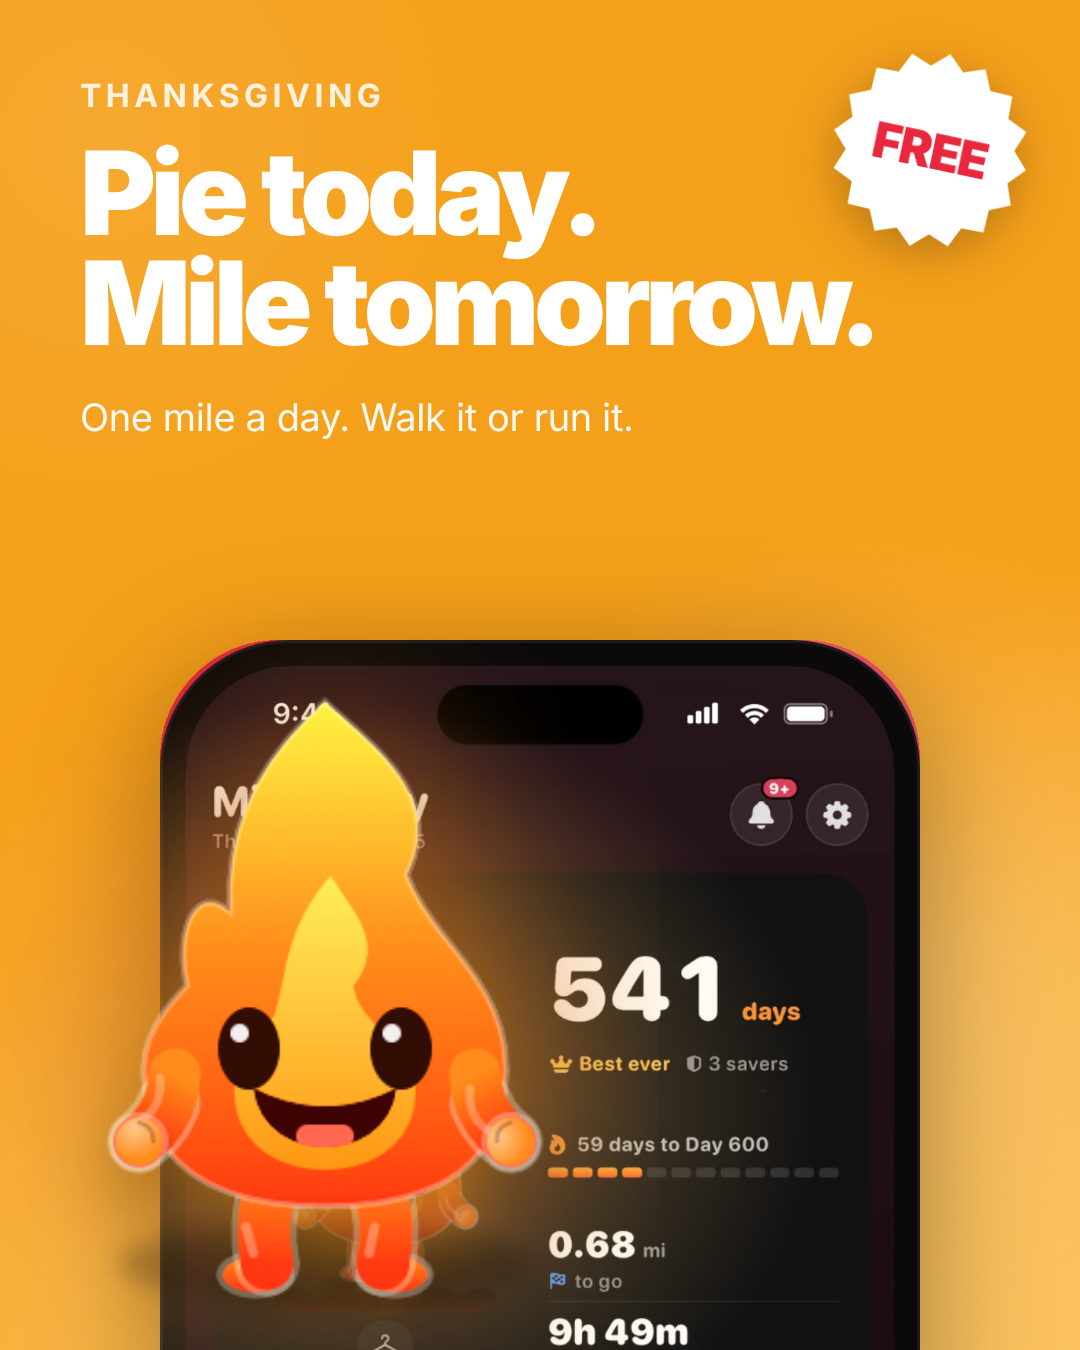
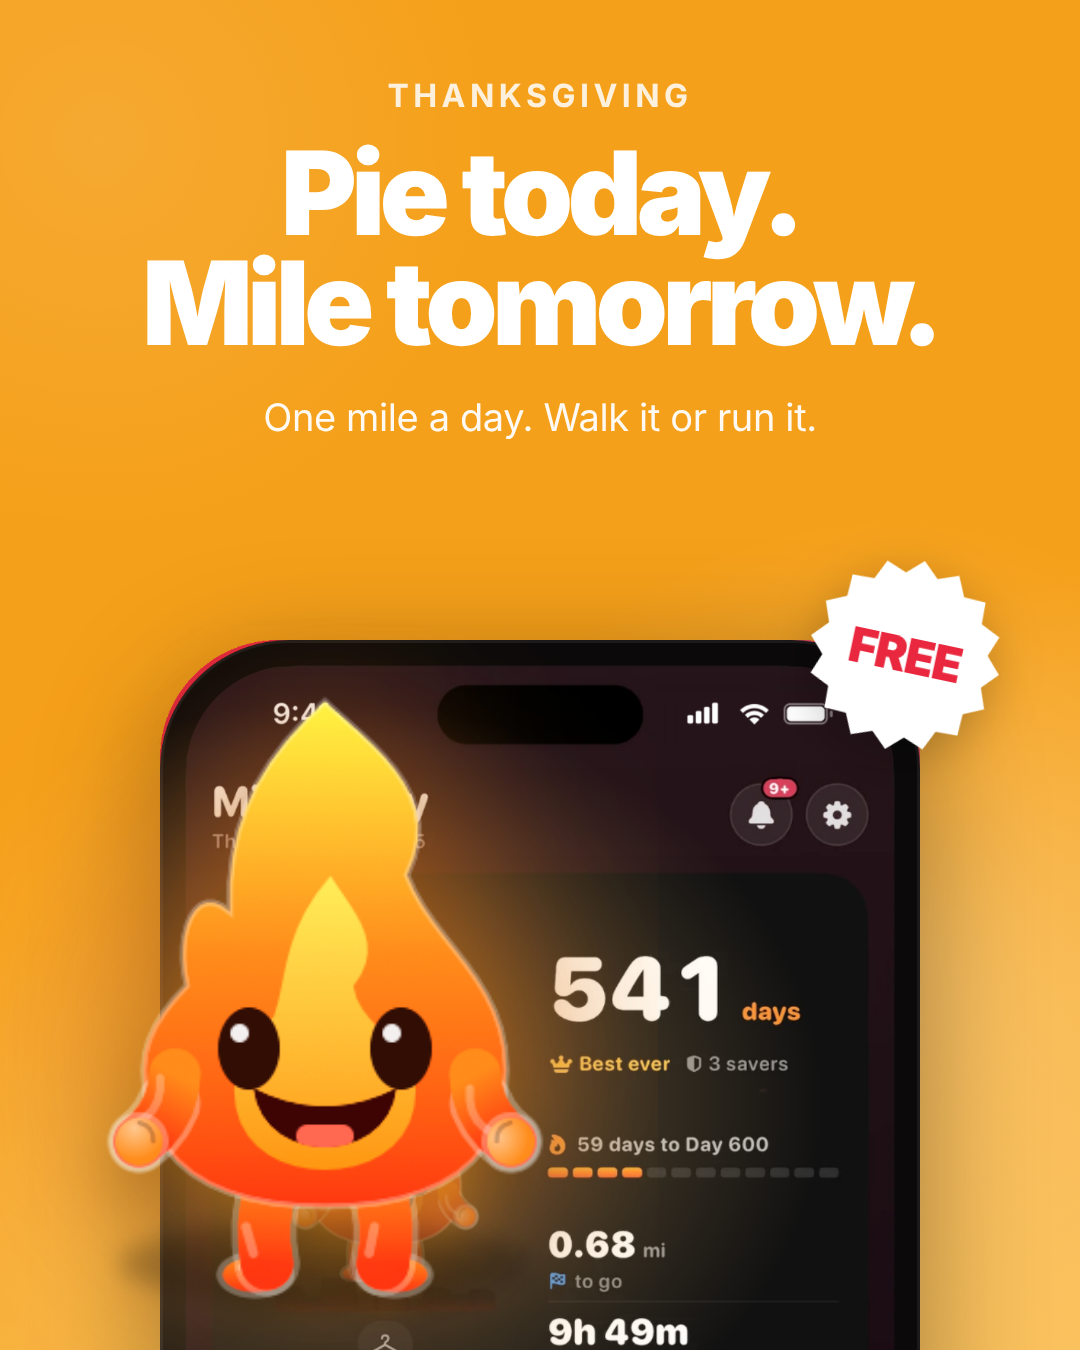
Centre the Thanksgiving ads and add social ads
New ads for the family competition, nudges and hypes, and the locked
feed, rebuilt from the real UI with sample people. Every ad is centred,
and the carousel now leads with the social screens.

Claude-Session: https://claude.ai/code/session_01Y9vwq5W5Nh2T9TYQcjQjGm

diff --git a/marketing/ads/holiday-2026/README.md b/marketing/ads/holiday-2026/README.md
@@ -8,15 +8,24 @@ logs their first mile, not cost per install.
 Style matches the App Store screenshots: one bright brand colour per ad, a tight white headline, one plain sentence
 and a large real phone screen. Meta adds the Download button under each ad, so the images carry no button of their own.
 
-Scroll-stoppers built in: Flamey bursting out of the phone toward the viewer (a face stops the thumb), a FREE
-starburst, a giant "37", and two hooks to test against each other.
+Everything is centred, in the App Store colours, with a FREE starburst. Two kinds of ad, to test against each other:
+**hook ads** (Flamey bursting out of the phone) and **social ads** (the friends, feed and competition screens).
 
-| File | Placement | Primary text | Headline |
-|---|---|---|---|
-| `a1-walk-off-feed.png` (1080×1350) / `a1-walk-off-story.png` (1080×1920) | Feed / Stories + Reels | Thanksgiving tradition, new edition: walk or run one mile a day. Indoors or out, 10,000 steps counts too. Free on iPhone and Apple Watch. | Walk off the turkey. |
-| `a2-pie-mile-feed.png` / `a2-pie-mile-story.png` | Feed / Stories + Reels | Eat the pie. Then start a streak: walk or run one mile a day, any pace. Free on iPhone and Apple Watch. | Pie today. Mile tomorrow. |
-| `b-day-37-feed.png` / `b-day-37-story.png` | Feed / Stories + Reels | Start your streak on Thanksgiving and you'll be on day 37 when everyone else is writing resolutions. One mile a day. Free on iPhone. | Day 37 by New Year's. |
-| `c0-hook.png`, then `c1-streak.png` … `c5-download.png` (1080×1080) | Carousel, in order | One mile a day. Build a streak, earn medals, dress up your Flamey, and stay on track with streak tokens when life happens. Free on iPhone. | One mile a day. That's it. |
+Social screens are rebuilt from the real app UI with sample people drawn as initial avatars, the way the app shows
+anyone without a photo, so no real user appears in a paid ad.
+
+| Files (feed 1080×1350 / story 1080×1920) | Primary text | Headline |
+|---|---|---|
+| `s1-together-*` Family Turkey Trot competition | This Thanksgiving, start a family competition: one mile a day, walked or run, and a leaderboard that settles it. Free on iPhone. | Walk off the turkey. Together. |
+| `s2-friends-*` Nudges and hypes | Your friends can see when you skip, and they'll nudge you. Walk or run one mile a day, together. Free on iPhone. | Your friends won't let you skip. |
+| `s3-feed-*` Locked stories | Your friends' stories stay locked until your mile is done. One mile a day, walk it or run it. Free on iPhone. | Earn your feed. |
+| `a1-walk-off-*` | Thanksgiving tradition, new edition: walk or run one mile a day. Indoors or out, 10,000 steps counts too. Free on iPhone and Apple Watch. | Walk off the turkey. |
+| `a2-pie-mile-*` | Eat the pie. Then start a streak: walk or run one mile a day, any pace. Free on iPhone and Apple Watch. | Pie today. Mile tomorrow. |
+| `b-day-37-*` | Start your streak on Thanksgiving and you'll be on day 37 when everyone else is writing resolutions. One mile a day. Free on iPhone. | Day 37 by New Year's. |
+
+Carousel (1080×1080, in order `carousel-1` … `carousel-9`): hook, family competition, friends, feed, streak, Flamey's
+Closet, milestones, streak tokens, download. Primary text: "One mile a day with your friends: compete, nudge, hype, and
+keep each other going. Free on iPhone." Headline: "One mile a day. Better together."
 
 Rules these follow: nothing about the viewer's body or weight (Meta personal-attributes policy), no Mile A Day+ in
 ads, and only app screens without other users' names or photos (App Store slides 02, 03, 04, 06 and 08 show real
